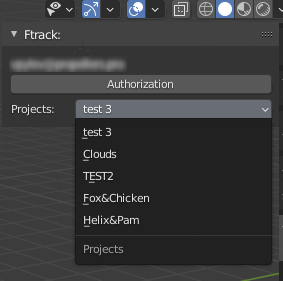
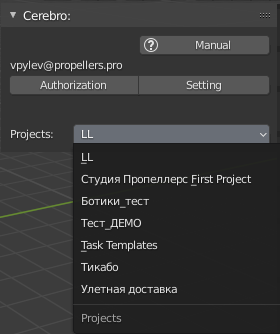
settings

diff --git a/docs/source/conf.py b/docs/source/conf.py
@@ -21,8 +21,8 @@ sys.path.insert(0, os.path.abspath('../../plugins'))
 
 # -- Project information -----------------------------------------------------
 
-project = 'Ftrack b3d connect'
-copyright = '2021, Vladimir Pylev'
+project = 'Cerebro at Propellers'
+copyright = '2022, Vladimir Pylev'
 author = 'Vladimir Pylev'
 
 # The full version, including alpha/beta/rc tags

diff --git a/docs/source/manual/settings.rst b/docs/source/manual/settings.rst
@@ -17,14 +17,20 @@
 
 .. image:: ../_static/images/projects_dir_setting.png
 
-* При этом название самой директории **Ftrack_Projects_Main** она будет создана в указанной директории.
+* При этом название самой директории **Cerebro_Projects_Main** она будет создана в указанной директории.
 
-* Если выбрать саму директорию **Ftrack_Projects_Main** то ничего создаваться не будет и эта директория станет рабочей.
+* Если выбрать саму директорию **Cerebro_Projects_Main** то ничего создаваться не будет и эта директория станет рабочей.
 
-.. note:: Можно иметь любое количество таких директорий для разных проектов и переключаться между ними.
+.. note:: Можно иметь любое количество таких директорий для разных проектов и текущих состояний, и переключаться между ними.
 
 
 Выбор графических редакторов
 ----------------------------
 
+.. image:: ../_static/images/graphics_editor_setting.png
+
 Добавление графических редакторов в список, для дальнейшего использования их при редактировании текстур :ref:`work_panel_edit_textures`.
+
+Для того чтобы добавить графический редактор надо выбрать его экзешник в проводнике и указать имя под которым он будет отображаться в списке: поле ``Name``.
+
+.. image:: ../_static/images/selecting_graphics_editor_settings.png

diff --git a/docs/source/manual/authentication.rst b/docs/source/manual/authentication.rst
@@ -7,15 +7,13 @@
 
     .. image:: ../_static/images/start_panel.png
 
-* Для авторизации заполняются три поля:
+* Для авторизации заполняются два поля:
 
     .. image:: ../_static/images/autorization_panel.png
 
-    * **Server Url** : ``https://server_name.ftrackapp.com`` (*"http://"* - в строке нужен обязательно).
+    * **Username** : ваш никнейм.
 
-    * **Api User** : ``your_nicname``
-
-    * **Api Key** : берётся из *web* менеджера ``My account/Personal api key`` - чтобы его увидеть и скопировать в некоторых случаях надо его сбросить.
+    * **Password** : пароль.
 
 * После авторизации будет доступен список активных проектов, выбрав проект получаем доступ к задачам данного пользователя.
 

diff --git a/docs/source/index.rst b/docs/source/index.rst
@@ -5,7 +5,7 @@ Manual
 
 `Общий обзор (видео) <https://youtu.be/R-c-LF7VbWM>`_
 
-`Установка обновление <https://www.notion.so/propls/Blender-c82c47774e5341a8b633ebb9a4dfe3f4>`_
+`Установка обновление <https://www.notion.so/propls/Blender-Cerebro-b2e5fad019974df4ad8f2ffc590c9303>`_
 
 Содержание:
 
